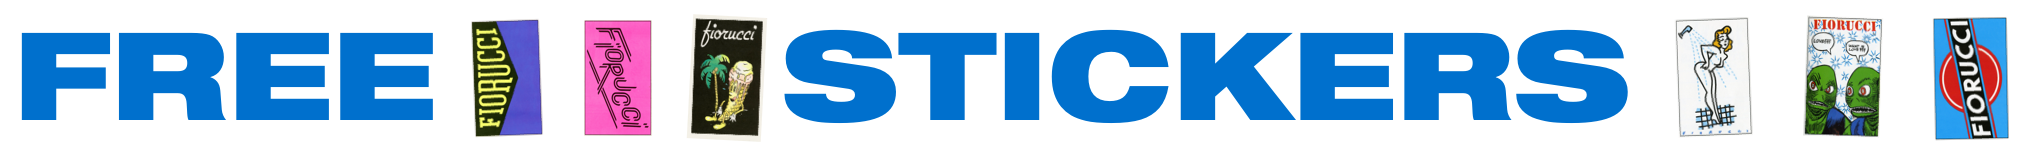
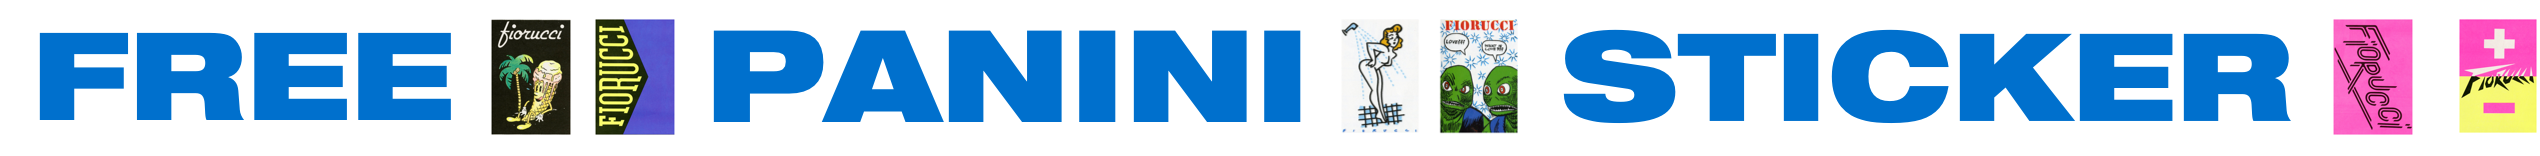
sticker cleanup

diff --git a/index.html b/index.html
@@ -37,14 +37,14 @@ layout: default
       </a>
       <form id="addressForm" accept-charset="UTF-8" action="https://formkeep.com/f/3c2b95459d22" method="POST">
         <div class="w-40 dn db-ns fl tc">
-          <img src="assets/images/stickers.jpg" />
+          <img src="assets/images/stickers2.jpg" />
         </div>
         <div class="w-100 w-60-ns fr ph2 ph4-ns">
           <h2 class="f1 tc ttu blue">
             Where shall we send your free vintage Panini sticker?
           </h2>
           <div class="stickerImg db dn-ns tc mb3">
-            <img src="assets/images/stickers.jpg" />
+            <img src="assets/images/stickers2.jpg" />
           </div>
           <input type="hidden" name="utf8" value="✓">
           <input type="email" placeholder="Your Email" class="dn bg-none f3 center ba b--blue pt2 pb1 pl3 pr3 tc w-100 ttu ph-blue input-blue mb2" name="email" id="email-address-hidden" value="" required>
@@ -117,14 +117,26 @@ layout: default
     <img class="w-100" src="assets/images/fiorucciDenimLogo.png" />
     <img class="w-100" src="assets/images/fiorucciDenimLogo.png" />
     <img class="w-100" src="assets/images/fiorucciDenimLogo.png" />
+    <img class="w-100" src="assets/images/fiorucciDenimLogo.png" />
+    <img class="w-100" src="assets/images/fiorucciDenimLogo.png" />
+    <img class="w-100" src="assets/images/fiorucciDenimLogo.png" />
+    <img class="w-100" src="assets/images/fiorucciDenimLogo.png" />
+    <img class="w-100" src="assets/images/fiorucciDenimLogo.png" />
+    <img class="w-100" src="assets/images/fiorucciDenimLogo.png" />
   </div>
 </div>
 
 <div class="dn db-ns blk denim-r blk-col bg-denimTan tc">
   <div class="pt1">
-    <img src="assets/images/fiorucciDenimLogo.png" />
-    <img src="assets/images/fiorucciDenimLogo.png" />
-    <img src="assets/images/fiorucciDenimLogo.png" />
+    <img class="w-100" src="assets/images/fiorucciDenimLogo.png" />
+    <img class="w-100" src="assets/images/fiorucciDenimLogo.png" />
+    <img class="w-100" src="assets/images/fiorucciDenimLogo.png" />
+    <img class="w-100" src="assets/images/fiorucciDenimLogo.png" />
+    <img class="w-100" src="assets/images/fiorucciDenimLogo.png" />
+    <img class="w-100" src="assets/images/fiorucciDenimLogo.png" />
+    <img class="w-100" src="assets/images/fiorucciDenimLogo.png" />
+    <img class="w-100" src="assets/images/fiorucciDenimLogo.png" />
+    <img class="w-100" src="assets/images/fiorucciDenimLogo.png" />
   </div>
 </div>
 
@@ -157,8 +169,7 @@ layout: default
   data-pausable="true"
   data-reverse="true"
 >
-
-    <a href="" data-originalWidth="2040" data-originalHeight="156" class="getStickers imgTxt h-100 blink_me h-100 db flex flex-column justify-center items-center mr2" style="width: 700px;">
+  <a href="" data-originalWidth="2540" data-originalHeight="156" class="getStickers imgTxt h-100 blink_me h-100 db flex flex-column justify-center items-center mr2" style="width: 700px;">
   </a>
 </div>
 
